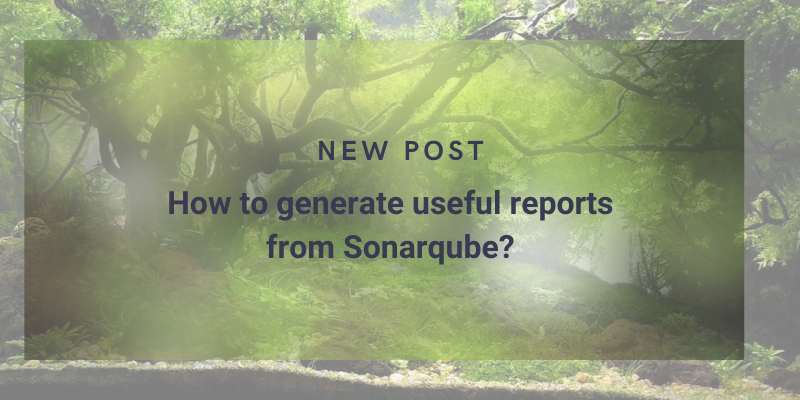
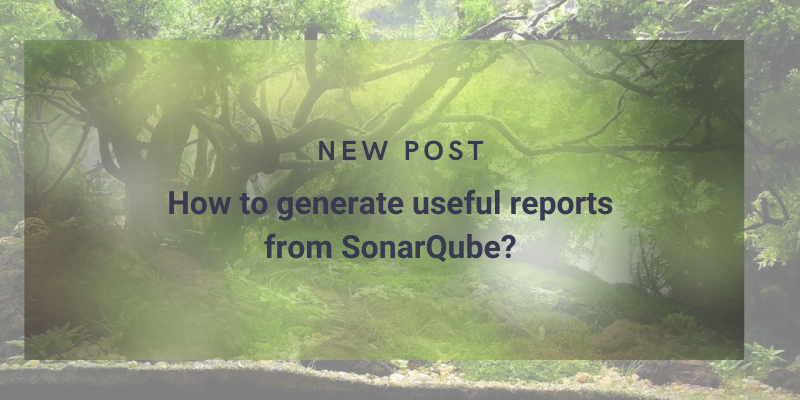
Correcciones

Changed region(s): [[0.3125, 0.57, 0.6562, 0.66]]

diff --git a/_posts/2025-09-04-generate-useful-reports-form-sonarqube_es.md b/_posts/2025-09-04-generate-useful-reports-form-sonarqube_es.md
@@ -52,8 +52,8 @@ En cuestión de segundos tendrás un documento profesional, listo para compartir
 
 <h2>Preguntas frecuentes (FAQ)</h2>
 
-**1. ¿Puedo usar estos plugins con cualquier versión de SonarQube?**
-Sí, ambos plugins son compatibles con múltiples versiones de SonarQube. En la página de descarga encontrarás información sobre compatibilidad exacta para cada versión.
+**1. ¿Puedo usar el Report Plugin for SonarQube Server con cualquier versión de SonarQube?**
+Sí, este plugin es compatible con múltiples versiones de SonarQube Server. En la página de descarga encontrarás la información de la compatibilidad. 
 
 **2. ¿Puedo personalizar los reportes con mi logo y formato corporativo?**
 ¡Por supuesto! Puedes personalizar tanto los reportes en PDF como los ODT, incluyendo logotipos, tablas, textos y hasta portadas personalizadas.

diff --git a/_posts/2025-09-04-generate-useful-reports-form-sonarqube_en.md b/_posts/2025-09-04-generate-useful-reports-form-sonarqube_en.md
@@ -52,8 +52,8 @@ In a matter of seconds, you’ll have a professional document ready to share.
 
 <h2>Frequently Asked Questions (FAQ)</h2>
 
-**1. Can I use these plugins with any version of SonarQube?**
-Yes, both plugins are compatible with multiple SonarQube versions. You’ll find exact compatibility details on the download page for each version.
+**1. Can I use the Report Plugin for SonarQube Server with any version of SonarQube?**
+Yes, this plugin is compatible with multiple versions of SonarQube Server. You will find compatibility information on the download page. 
 
 **2. Can I customize reports with my logo and corporate branding?**
 Absolutely! You can customize both PDF and ODT reports, including logos, tables, text, and even custom cover pages.
